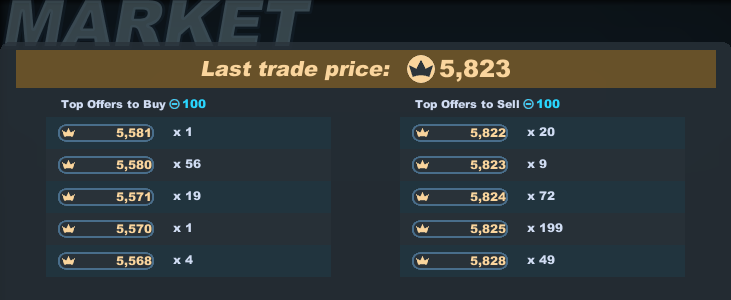
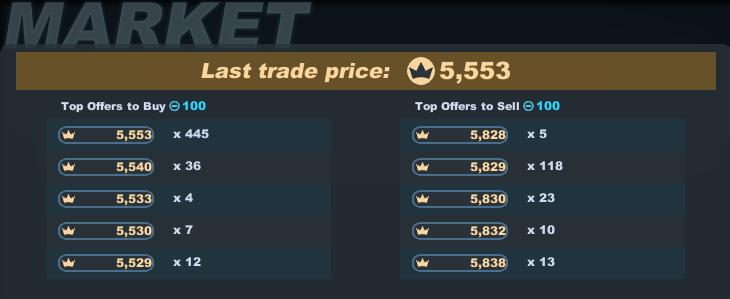
added automatic energy market posting

diff --git a/src/functions/other/timedEvents.js b/src/functions/other/timedEvents.js
@@ -1,0 +1,55 @@
+const { tradelogEmbed } = require('@functions/general');
+const fetch = require('node-fetch');
+const { insertEvent, getEvent, updateEvent } = require('@functions/database/timedEvents');
+const { saveRate } = require('@functions/database/rate');
+
+const checkTimedEvents = async (client) => {
+  const energyMarket = await getEvent('energyMarket');
+  const energyMarketTimer = energyMarket.updatedAt.setHours(energyMarket.updatedAt.getHours() + 12);
+  if (energyMarketTimer < new Date()) await energyMarketEvent(client);
+}
+
+const energyMarketEvent = async (client) => {
+  const crown = '<:kbpcrowns:1092398578053431366>', energy = '<:kbpenergy:1092398618939506718>';
+  const channel = client.channels.cache.get('866981820846047232'), eventName = 'energyMarket';
+  const data = await fetch(process.env.energyMarket).then(res => res.json());
+  
+  const buyPrice = data.buyOffers.reduce((total, offer) => total + (offer.price * offer.volume), 0);
+  const buyCount = data.buyOffers.reduce((total, offer) => total + offer.volume, 0);
+  const buyAverage = Math.round(buyPrice / buyCount);
+  const sellPrice = data.sellOffers.reduce((total, offer) => total + (offer.price * offer.volume), 0);
+  const sellCount = data.sellOffers.reduce((total, offer) => total + offer.volume, 0);
+  const sellAverage = Math.round(sellPrice / sellCount);
+  const rate = Math.round((buyAverage + (sellAverage - buyAverage) / 2) / 100);
+    
+  const embed = tradelogEmbed()
+    .setTitle(new Date(data.datetime).toUTCString().slice(0,16))
+    .setDescription(
+      `**Last trade price: ${crown} ${data.lastPrice.toLocaleString()}**\n` +
+      `**Recommended conversion rate: ${crown} ${rate} per ${energy} 1**`
+    )
+    .addFields([
+    { 
+      name: `Top Offers to Buy ${energy} 100`,
+      value: data.buyOffers.reduce(
+        (t, o) => t.concat('\n', `${crown} ${o.price.toLocaleString()} x ${o.volume.toLocaleString()}`), ''),
+      inline: true
+    },{ 
+      name: '\u200B',
+      value: '\u200B',
+      inline: true 
+    },{ 
+      name: `Top Offers to Sell ${energy} 100`,
+      value: data.sellOffers.reduce(
+        (t, o) => t.concat('\n', `${crown} ${o.price.toLocaleString()} x ${o.volume.toLocaleString()}`), ''),
+      inline: true
+    }]);
+
+  await updateEvent(eventName);
+  await saveRate(rate);
+  await channel.send({ embeds: [embed] });
+}
+
+module.exports = {
+  checkTimedEvents
+}

diff --git a/src/functions/messages/kbp.js b/src/functions/messages/kbp.js
@@ -3,15 +3,18 @@ const { updateRate } = require('@functions/commands/update');
 const { globals } = require('@data/variables');
 
 const kbp = async (message, logChannel) => {
-  if (message.author.bot) return;
-  
-  switch (message.channelId) {
-    case globals.wtbChannelId: await giveMute(message, logChannel); break;
-    case globals.wtsChannelId: await giveMute(message, logChannel); break;
-    case globals.marketChannelId: await updateRate(message, logChannel); break;
+  if (message.author.bot) {
+    switch (message.channelId) {
+      case '1095265535723327532': message.crosspost(); break;
+    }
+  } else {
+    switch (message.channelId) {
+      case globals.wtbChannelId: await giveMute(message, logChannel); break;
+      case globals.wtsChannelId: await giveMute(message, logChannel); break;
+      //case globals.marketChannelId: await updateRate(message, logChannel); break;
+    }
   }
 }
-
 
 module.exports = {
   kbp

diff --git a/src/commands/kbp/update.js b/src/commands/kbp/update.js
@@ -21,11 +21,11 @@ module.exports = {
 
     await interaction.editReply({ embeds: [reply] });
 
-    await updateRate(msg, logChannel);
+    //await updateRate(msg, logChannel);
     
-    const marketTime = ((performance.now() - startTime)/1000).toFixed(2);
-    totalTime += parseFloat(marketTime);
-    await interaction.editReply({ embeds: [reply.setTitle(`Finished reading market image in ${marketTime} seconds`)] });
+    // const marketTime = ((performance.now() - startTime)/1000).toFixed(2);
+    // totalTime += parseFloat(marketTime);
+    // await interaction.editReply({ embeds: [reply.setTitle(`Finished reading market image in ${marketTime} seconds`)] });
 
     for (const [name, id] of channels) {
       const start = performance.now();

diff --git a/src/events/discord/ready.js b/src/events/discord/ready.js
@@ -3,6 +3,7 @@ const { checkOldMessages } = require('@functions/moderation/kbpTradeMute');
 const { dbCheckExpiredMutes } = require('@functions/database/tradeMute');
 const { checkForNewLogs } = require('@functions/commands/update');
 const { stillAlive } = require('@functions/general');
+const { checkTimedEvents } = require('@functions/other/timedEvents');
 
 module.exports = {
 	name: 'ready',
@@ -15,6 +16,7 @@ module.exports = {
     await checkOldMessages(client);
     
     const check = async () => {
+      await checkTimedEvents(client);
       await dbCheckExpiredMutes(client);
       await checkForNewLogs(client);
       await stillAlive(client);

diff --git a/src/functions/database/timedEvents.js b/src/functions/database/timedEvents.js
@@ -1,0 +1,25 @@
+const mongoose = require('mongoose');
+const event = require('@schemas/timedEvents');
+
+const insertEvent = async (name) => {
+  const profile = new event({
+    _id: mongoose.Types.ObjectId(),
+    name: name,
+  });
+
+  await profile.save().catch(err => console.log(err));
+}
+
+const getEvent = async (name) => {
+  return await event.findOne({ name: name });
+}
+
+const updateEvent = async (name) => {
+  await event.findOneAndUpdate({ name: name }, { $inc: { 'executed': 1 } });
+}
+
+module.exports = {
+  insertEvent,
+  getEvent,
+  updateEvent
+}

diff --git a/src/data/schemas/timedEvents.js b/src/data/schemas/timedEvents.js
@@ -1,0 +1,11 @@
+const mongoose = require('mongoose');
+
+const eventSchema = new mongoose.Schema({
+  _id: mongoose.Schema.Types.ObjectId,
+  name: String,
+  executed: { type: Number, default: 1 },
+},{
+  timestamps: true,
+});
+
+module.exports = mongoose.model('event', eventSchema, 'timedEvents');
